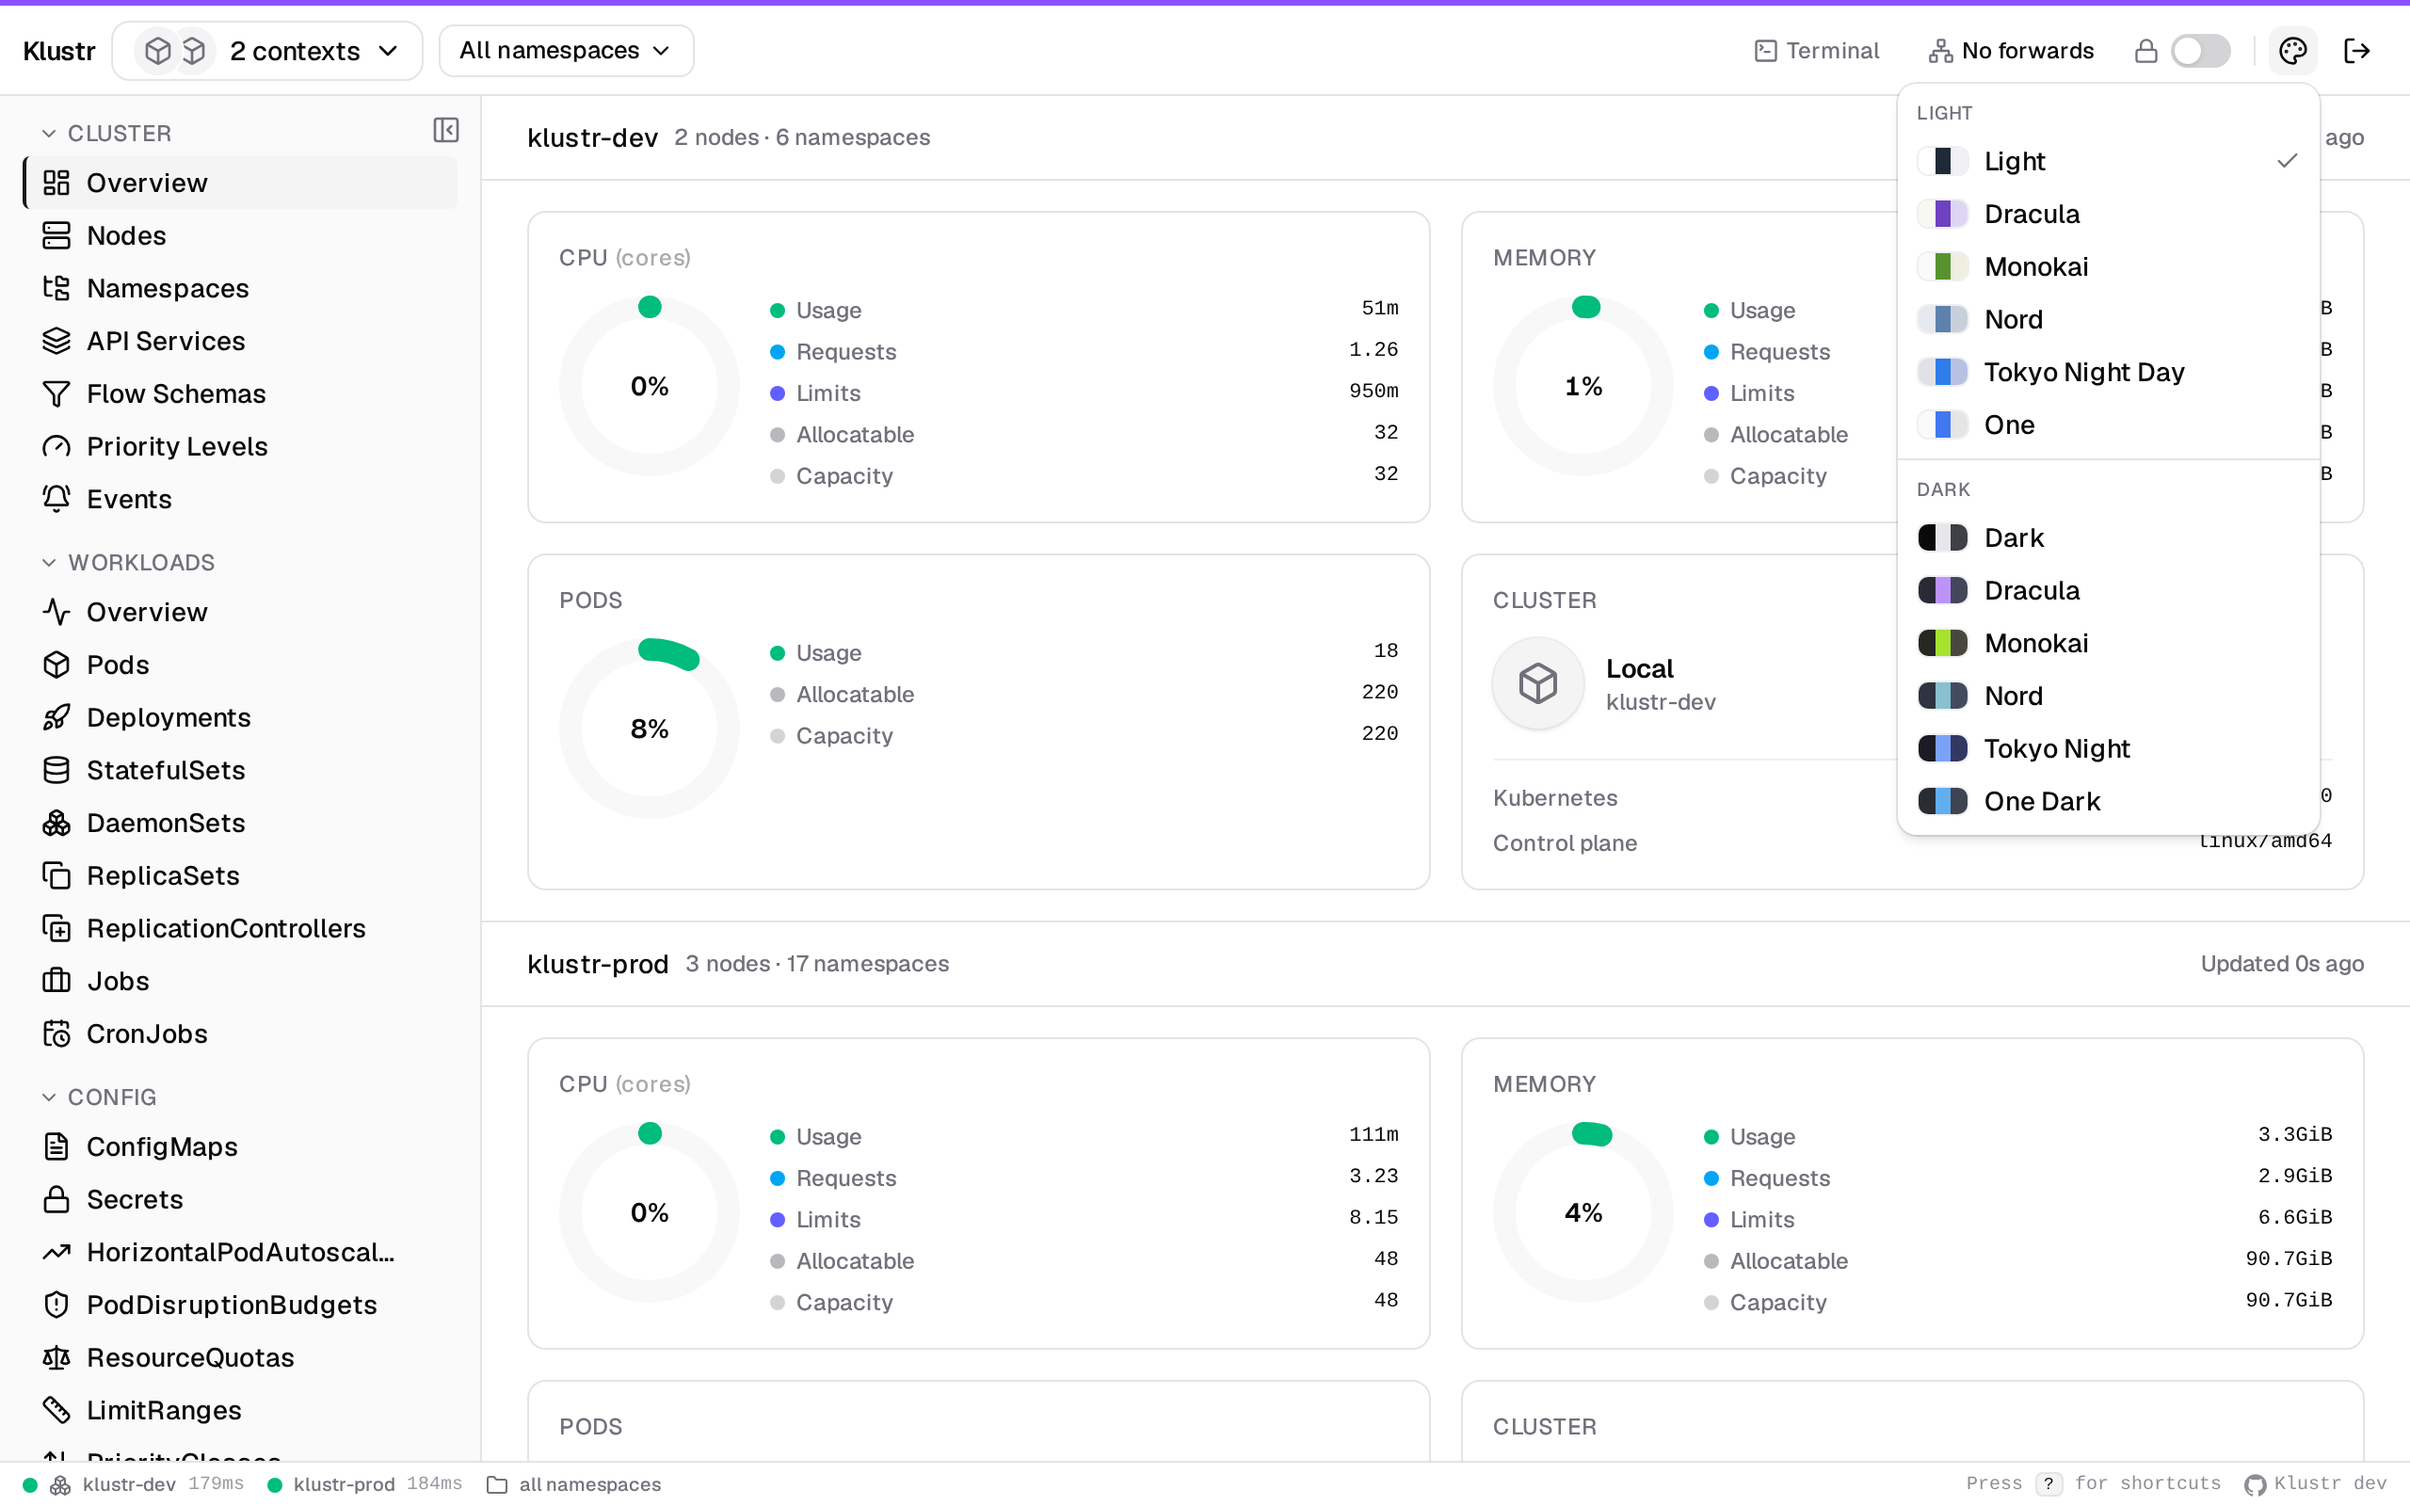
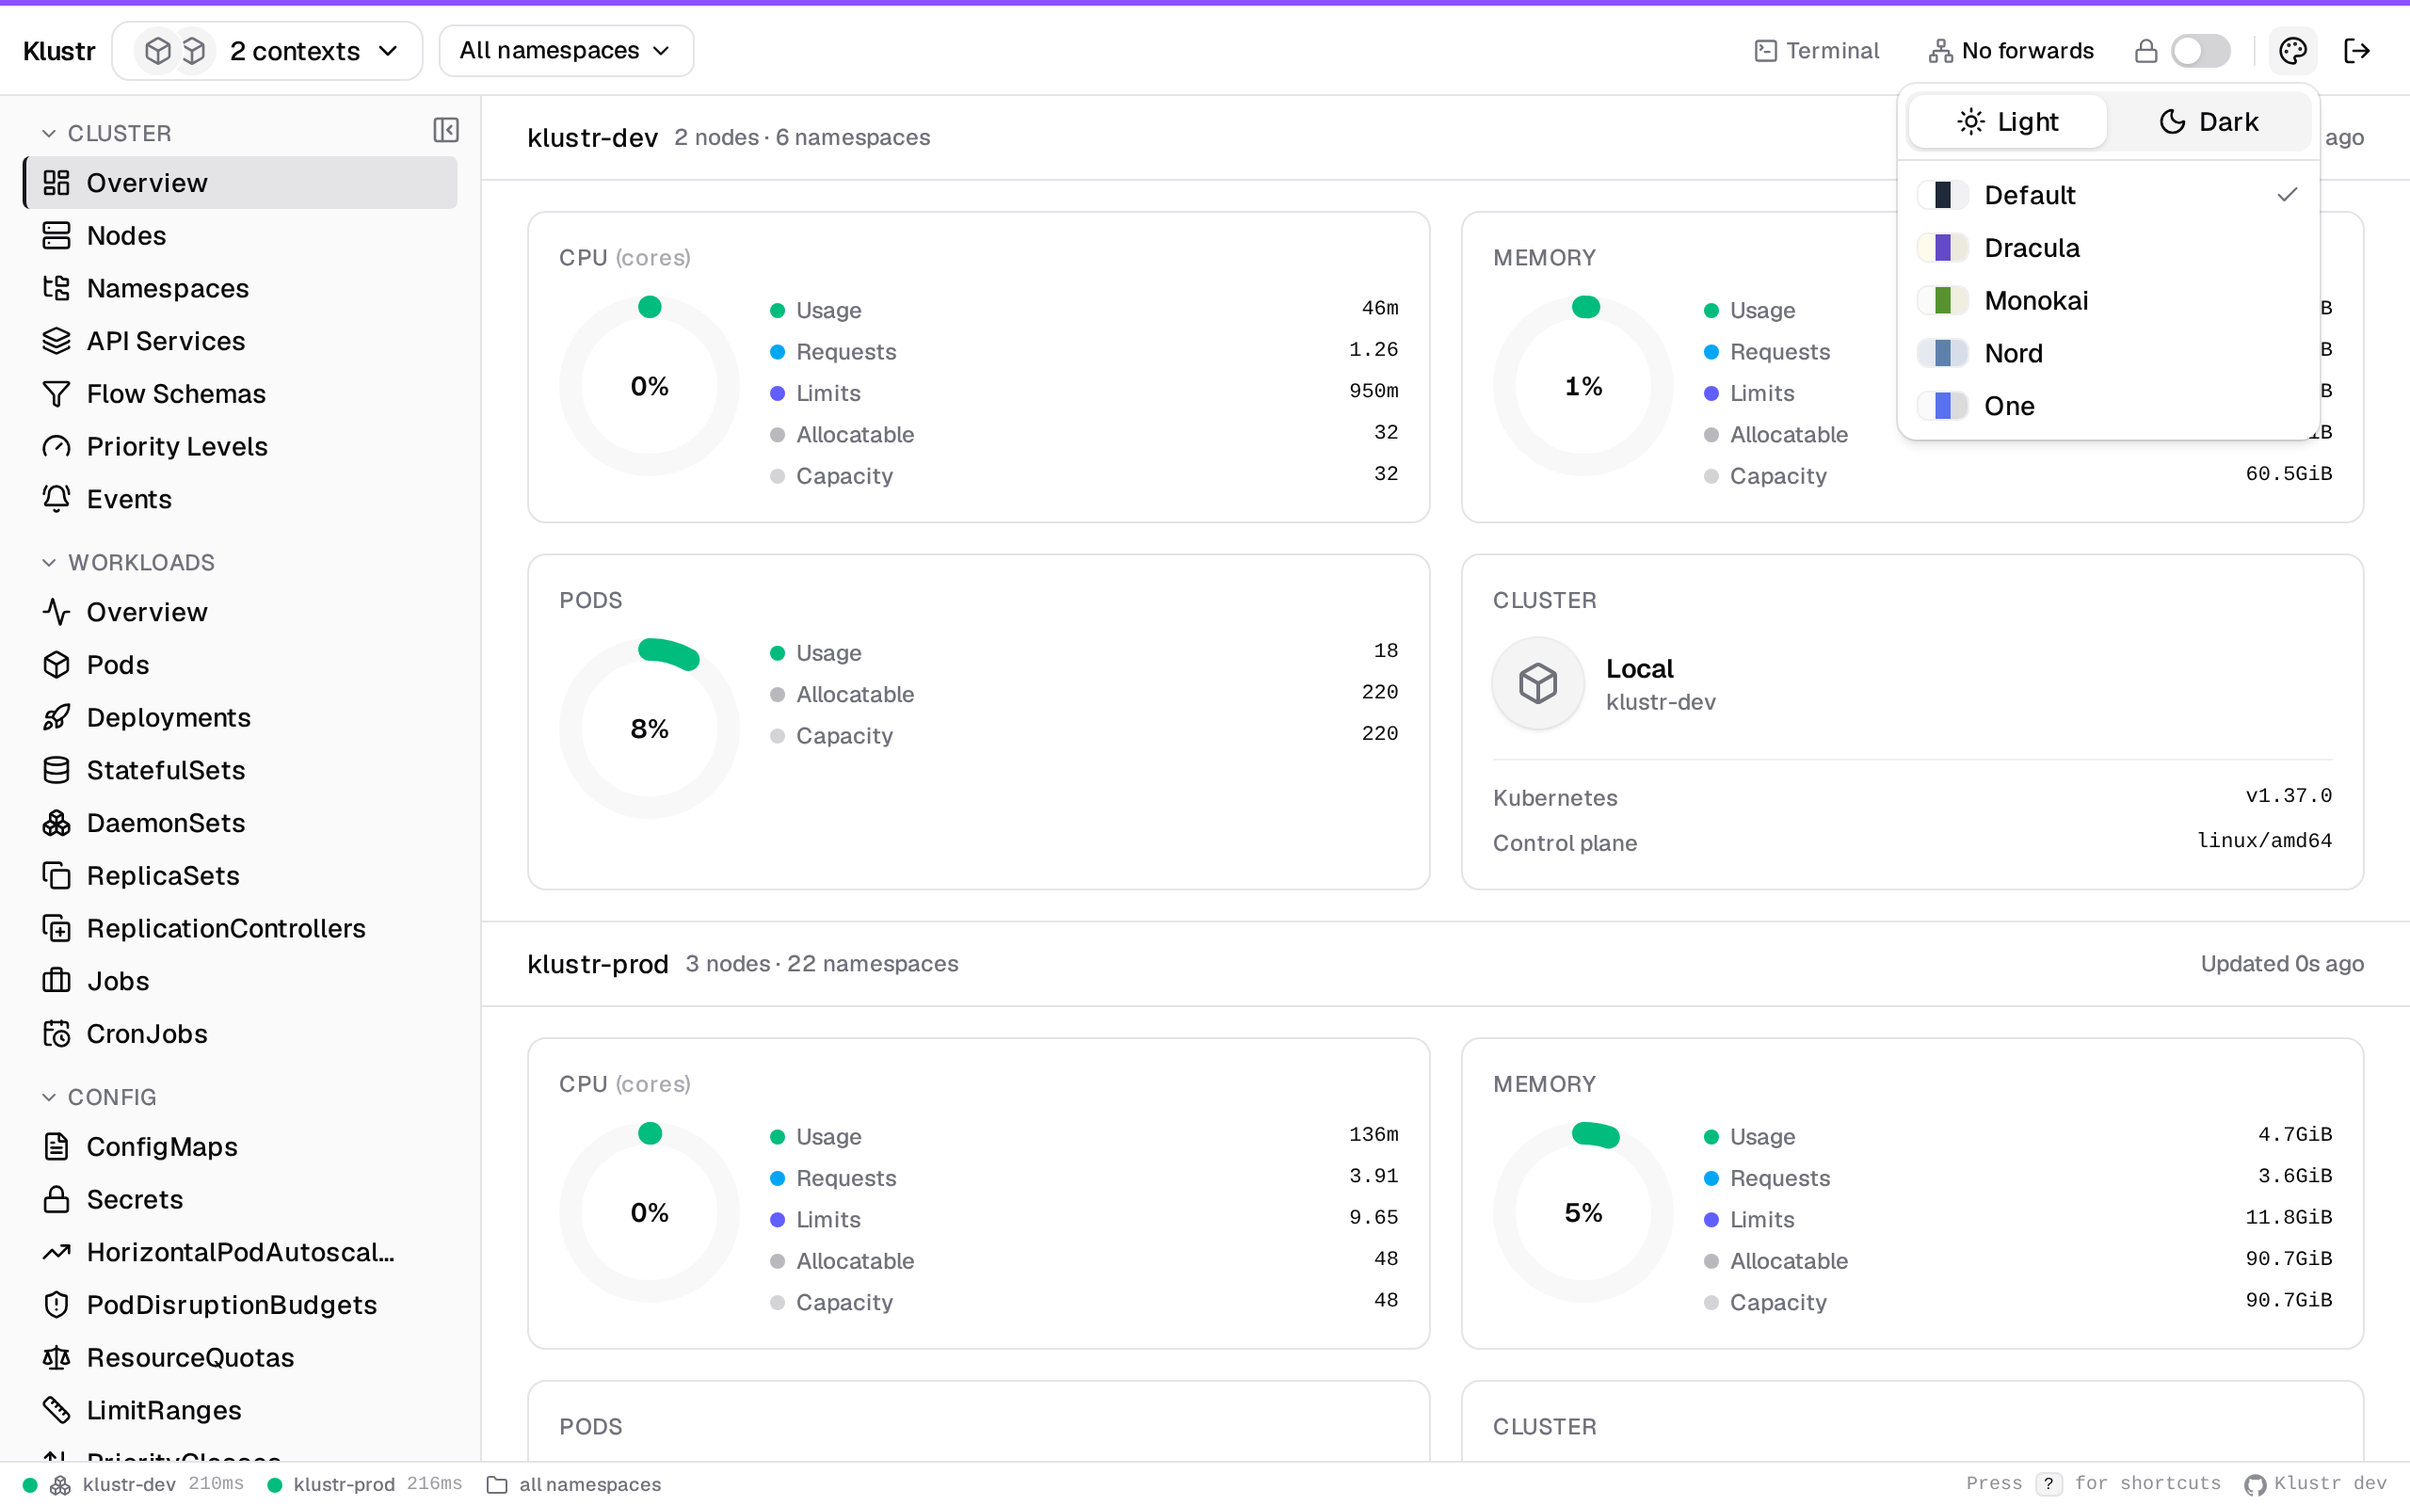
feat(site): add Tekton and Kyverno to the workflow tour
The tour gains a Tekton card (a failed PipelineRun's task table) and a
Kyverno card (a Deployment's Policy tab), with their screenshots in the
hero slider, and the eyebrow now counts twelve workflows. The tab strip
goes from five columns to six so the twelve tabs fill two rows.

The app has had eleven themes since v0.83.0 dropped Tokyo Night Day:
the stat, the feature list and the theme picker shot say eleven (five
light, six dark), the picker shot shows the reworked family picker, and
the Helm shot, which was in Tokyo Night Day, is recaptured in Monokai
Light. The tour no longer claims a different theme per shot.

diff --git a/src/data/shots.ts b/src/data/shots.ts
@@ -4,7 +4,7 @@ import connections from '../assets/screenshots/02-connections-default-dark.png'
 import podDiagnosis from '../assets/screenshots/03-pod-diagnosis-default-light.png'
 import logsStream from '../assets/screenshots/04-logs-stream-dracula-light.png'
 import debugContainer from '../assets/screenshots/05-debug-container-one-dark.png'
-import helmUpgrade from '../assets/screenshots/06-helm-upgrade-diff-tokyo-night-day.png'
+import helmUpgrade from '../assets/screenshots/06-helm-upgrade-diff-monokai-light.png'
 import argoApplications from '../assets/screenshots/07-argo-applications-one-light.png'
 import fluxKustomization from '../assets/screenshots/08-flux-kustomization-monokai.png'
 import gatewayHttpRoute from '../assets/screenshots/09-gateway-httproute-tokyo-night.png'
@@ -19,6 +19,8 @@ import clusterOverview from '../assets/screenshots/17-cluster-overview-nord.png'
 import istioVirtualService from '../assets/screenshots/18-istio-virtualservice-one-light.png'
 import karpenterNodeClaims from '../assets/screenshots/19-karpenter-nodeclaims-tokyo-night.png'
 import kedaHpa from '../assets/screenshots/20-keda-hpa-nord-light.png'
+import tektonPipelineRun from '../assets/screenshots/21-tekton-pipelinerun-dracula-light.png'
+import kyvernoPolicyTab from '../assets/screenshots/22-kyverno-policy-tab-monokai.png'
 
 export type Shot = {
   id: string
@@ -30,8 +32,8 @@ export type Shot = {
 }
 
 // Every shot is captured from two kind clusters seeded with realistic
-// workloads and deliberate failures, at the app's default 1280×800 window,
-// each in a different theme so the tour doubles as a tour of the theme picker.
+// workloads and deliberate failures, at the app's default 1280×800 window. The
+// shots cycle through the themes, so the tour doubles as a tour of the picker.
 export const SHOTS: Shot[] = [
   {
     id: 'pods-aggregated',
@@ -82,7 +84,7 @@ export const SHOTS: Shot[] = [
     id: 'helm-upgrade',
     image: helmUpgrade,
     title: 'Helm upgrade with dry-run',
-    theme: 'Tokyo Night Day',
+    theme: 'Monokai Light',
     caption:
       'New values on the left, the manifest Helm would render on the right. Dry-run renders first; Upgrade applies only after you have read it. No helm binary is involved.',
     guide: { href: '/docs/helm/', label: 'Helm guide' },
@@ -171,10 +173,10 @@ export const SHOTS: Shot[] = [
   {
     id: 'theme-picker',
     image: themePicker,
-    title: 'Twelve themes',
+    title: 'Eleven themes',
     theme: 'Default Light',
     caption:
-      'Six light and six dark themes, switched from the header. Every screenshot in this tour uses a different one.',
+      'Six theme families, picked from the header, with a light and dark switch: five light themes and six dark ones, Tokyo Night being dark only. The screenshots in this tour cycle through them.',
     guide: { href: '/docs/getting-started/', label: 'Getting started' },
   },
   {
@@ -212,6 +214,24 @@ export const SHOTS: Shot[] = [
     caption:
       'A KEDA-managed autoscaler whose external metrics are mapped back to their ScaledObject triggers: a weekday 09:00 to 18:00 cron for three replicas and a CPU target, instead of opaque s0 and s1 rows.',
     guide: { href: '/docs/integrations/', label: 'Platform integrations' },
+  },
+  {
+    id: 'tekton-pipelinerun',
+    image: tektonPipelineRun,
+    title: 'Tekton PipelineRun',
+    theme: 'Dracula Light',
+    caption:
+      'A failed release run as one task table: clone succeeded, the tests failed, build, scan and deploy were skipped because the run was stopping, and the finally task still sent its notification.',
+    guide: { href: '/docs/tekton/', label: 'Tekton guide' },
+  },
+  {
+    id: 'kyverno-policy-tab',
+    image: kyvernoPolicyTab,
+    title: 'Kyverno Policy tab',
+    theme: 'Monokai',
+    caption:
+      'The payments-api Deployment with its own policy report: two failing Pod Security rules on top, the passing ones below, and the failing count on the tab label so it shows before the tab is opened.',
+    guide: { href: '/docs/kyverno/', label: 'Kyverno guide' },
   },
 ]
 

diff --git a/src/styles/global.css b/src/styles/global.css
@@ -591,7 +591,7 @@
      width of the container so the UI text stays readable. */
   .wf-tabs {
     display: grid;
-    grid-template-columns: repeat(5, minmax(0, 1fr));
+    grid-template-columns: repeat(6, minmax(0, 1fr));
     border: 1px solid var(--rule-strong);
     border-radius: var(--radius-sheet);
     background: var(--paper-2);
@@ -613,10 +613,10 @@
       background-color 0.12s ease,
       box-shadow 0.12s ease;
   }
-  .wf-tab:nth-child(5n) {
+  .wf-tab:nth-child(6n) {
     border-right: 0;
   }
-  .wf-tab:nth-child(n + 6) {
+  .wf-tab:nth-child(n + 7) {
     border-top: 1px solid var(--rule);
   }
   .wf-tab::before {

diff --git a/src/data/features.ts b/src/data/features.ts
@@ -24,5 +24,5 @@ export const FEATURE_LIST = [
   'Port-forwarding with suggested ports and a header indicator',
   'Built-in terminal drawer bound to the active context',
   'Per-context read-only mode',
-  'Twelve themes and a command palette',
+  'Eleven themes and a command palette',
 ]
